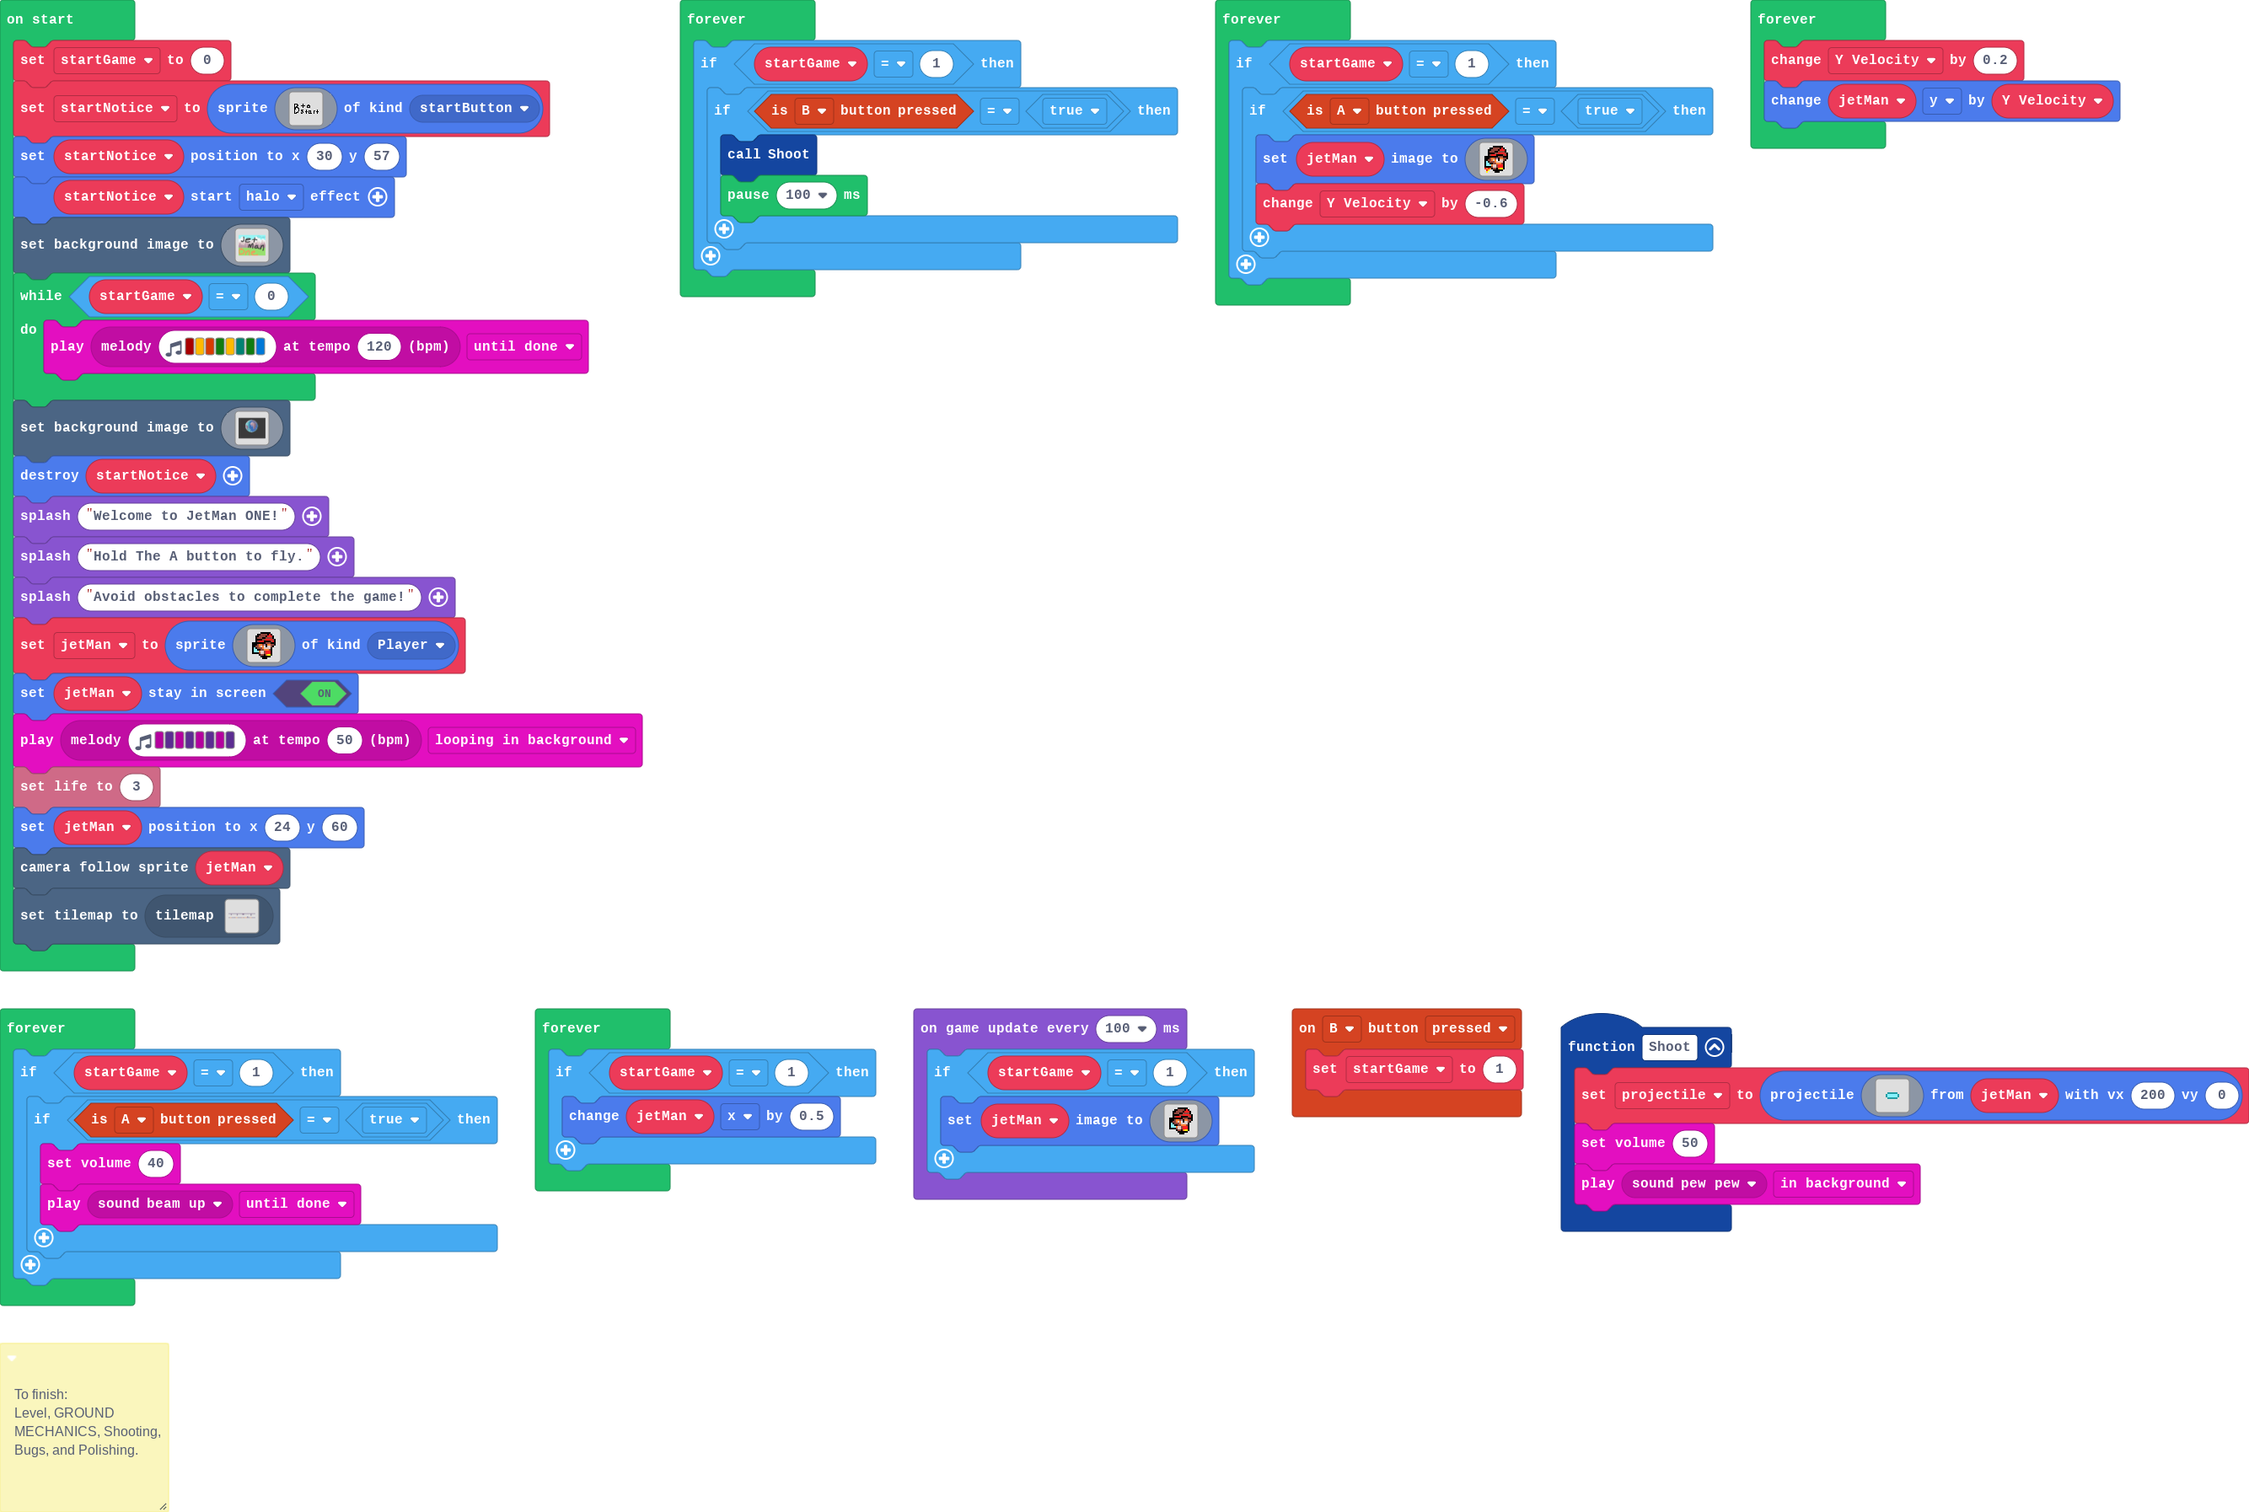
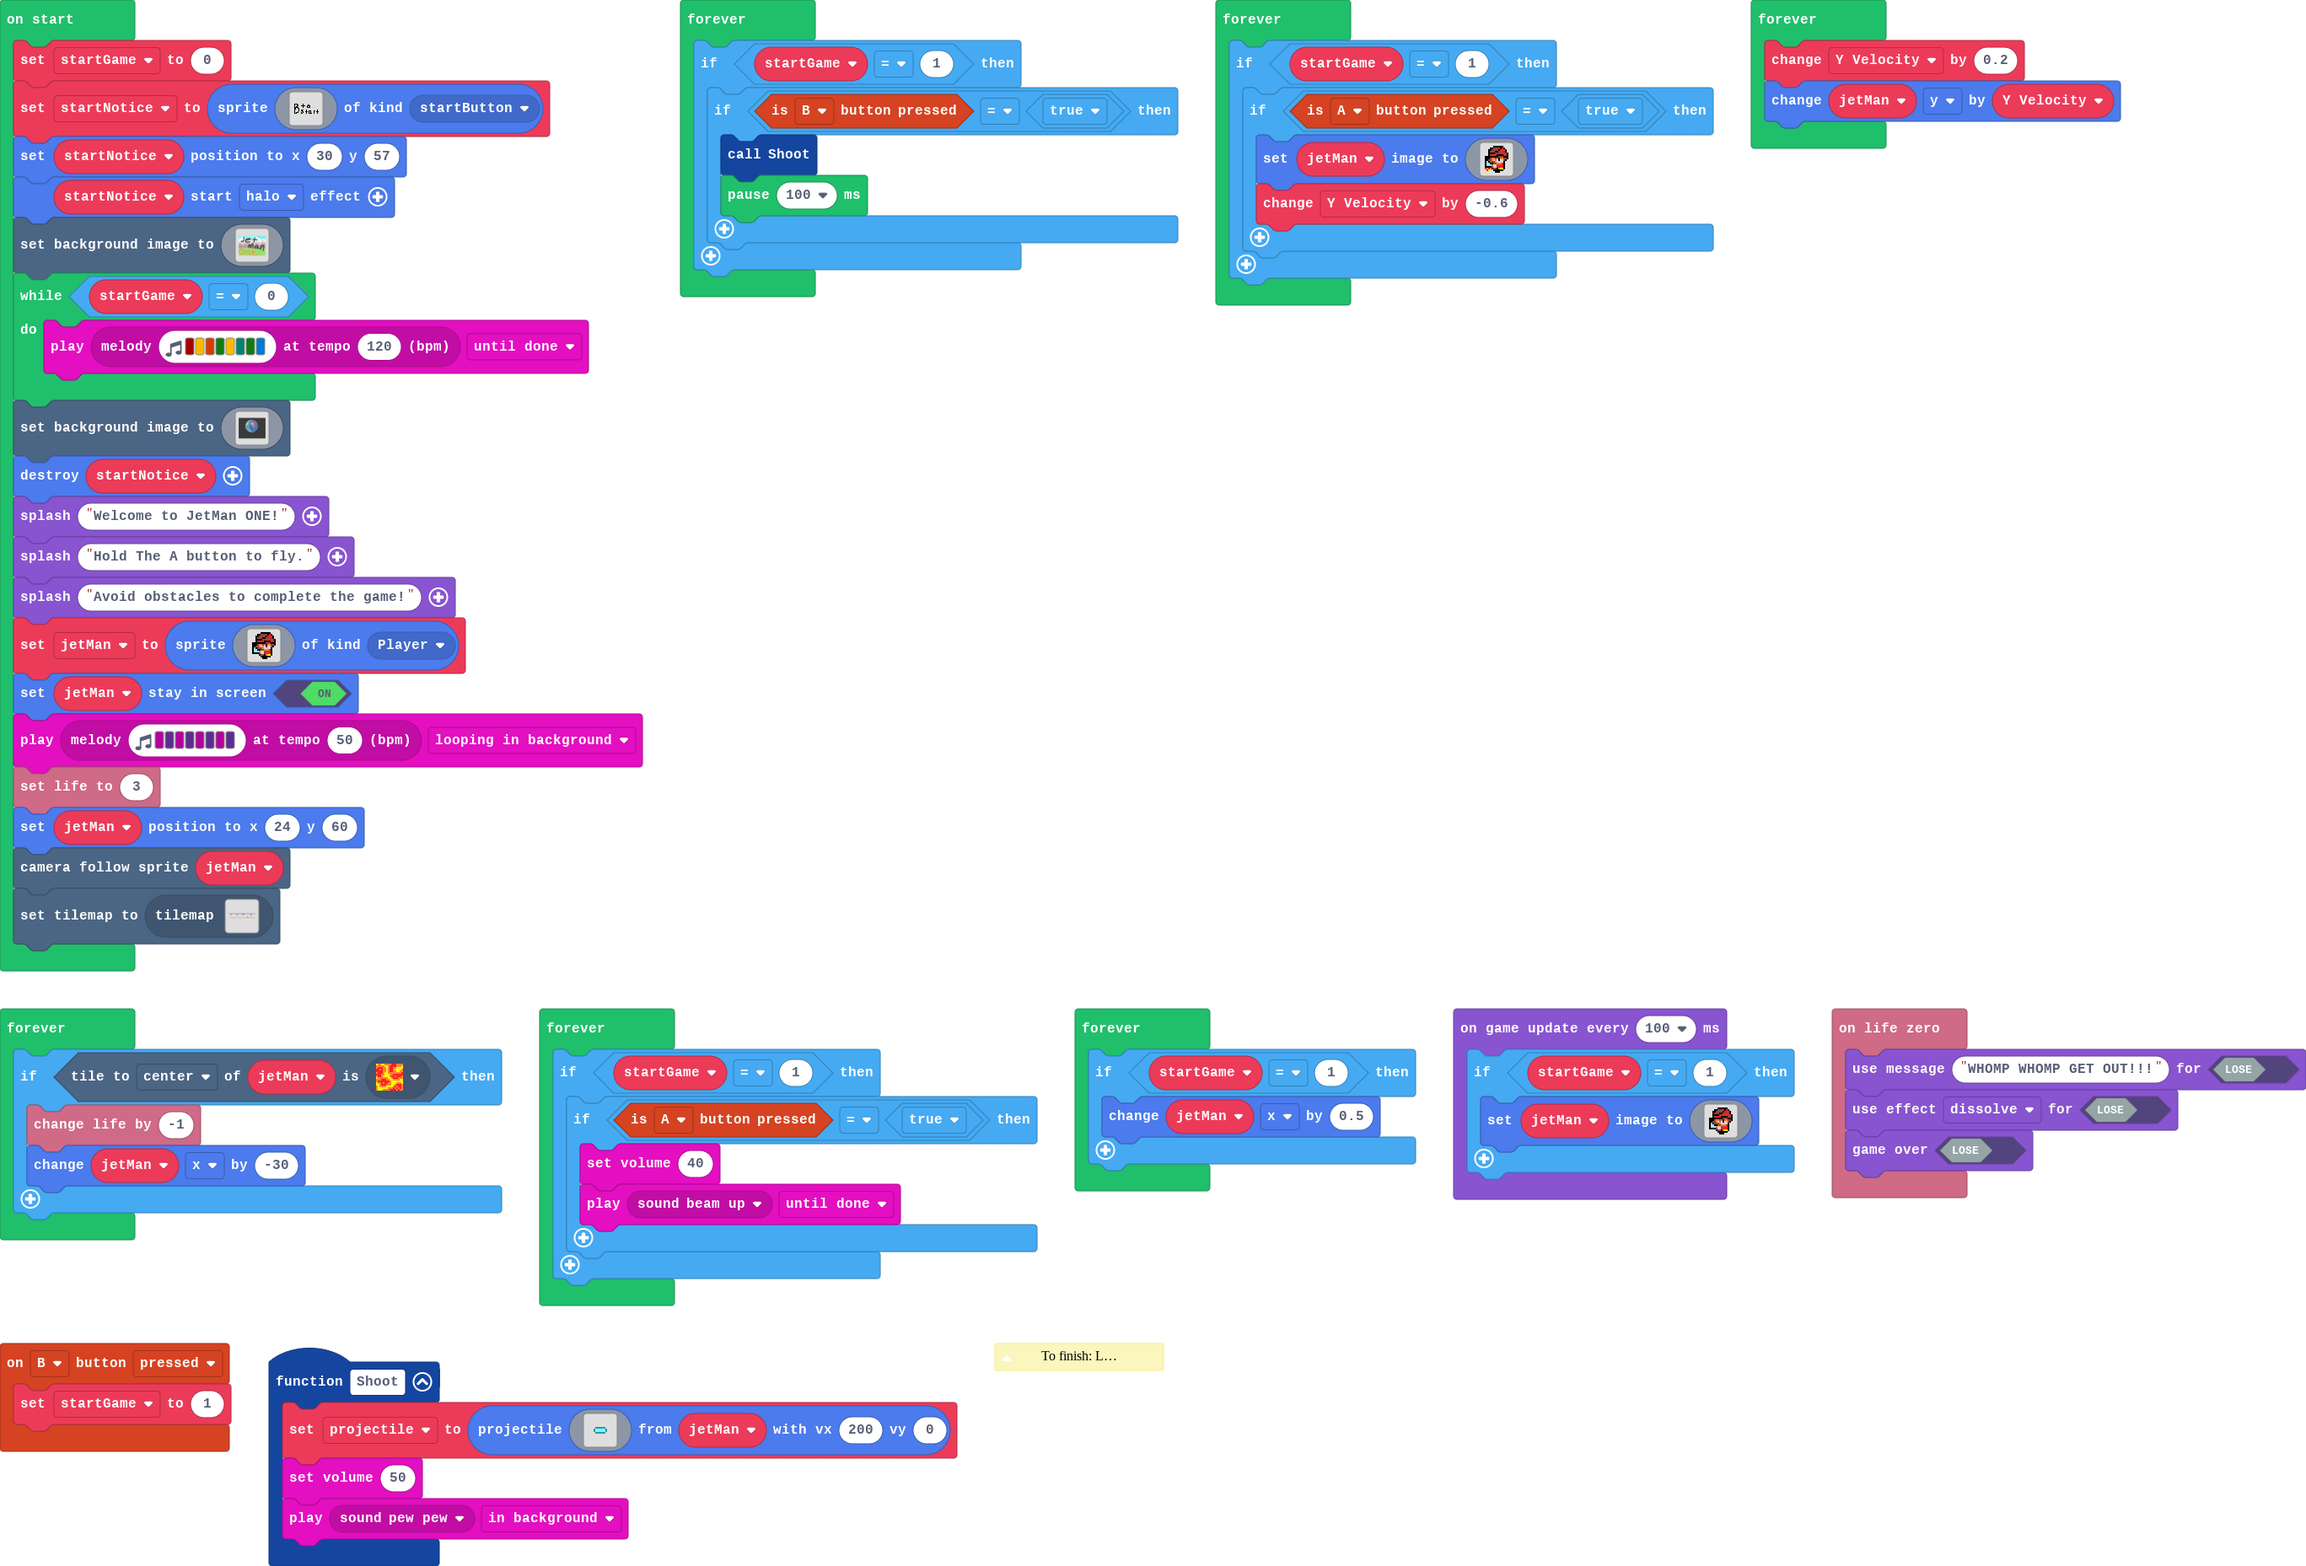
Update main.blocks, main.ts, tilemap.g.jres, tilemap.g.ts

Changed region(s): [[0.0, 0.0, 1.0, 1.0], [0.28, 0.0, 0.9644, 0.2185], [0.4355, 0.8428, 0.5289, 0.874]]

diff --git a/tilemap.g.ts b/tilemap.g.ts
@@ -5,25 +5,6 @@ namespace myTiles {
 
     helpers._registerFactory("tilemap", function(name: string) {
         switch(helpers.stringTrim(name)) {
-            case "level":
[1 lines of base64/hex data omitted]
-22222222222222222222222222222222222222222222222222222222222222222222222222222222222222222222222222222222
-..........22.....................22...................222222..........................22................
-..........22.....................22...................222222..........................22................
-..........22.....................22...................222222..........................22................
-..........22.....................22...................................................22................
-..........22.....................22...................................................22................
-.................................22...................................................22................
-.....................2222.............................................................22................
-.....................2222...............................................................................
-........................................................................................................
-........................................................................................................
-.........................................................................22.............................
-.........................................................................22.............................
-.........................................................................22.............................
-.......................2.................................................22.............................
-222222......2222222222222222.......22222222222222222....222222........2222222222222......222222222222222
-`, [myTiles.transparency16,sprites.dungeon.hazardLava1,sprites.dungeon.darkGroundNorth,sprites.dungeon.hazardLava0,sprites.dungeon.darkGroundEast,sprites.dungeon.darkGroundSouthEast0,sprites.dungeon.darkGroundSouthWest0,sprites.dungeon.darkGroundWest,sprites.builtin.brick,sprites.dungeon.doorClosedNorth,sprites.dungeon.darkGroundNorthWest0,sprites.dungeon.darkGroundNorthEast0,sprites.dungeon.darkGroundCenter,sprites.dungeon.darkGroundSouth], TileScale.Sixteen);
             case "hbbhb":
[1 lines of base64/hex data omitted]
 ........................................................................................................................................................................................................
@@ -43,6 +24,25 @@ namespace myTiles {
 ........................................................................................................................................................................................................
 ........................................................................................................................................................................................................
 `, [myTiles.transparency16,sprites.castle.tileGrass2], TileScale.Sixteen);
+            case "level":
[1 lines of base64/hex data omitted]
+22222222222222222222222222222222222222222222222222222222222222222222222222222222222222222222222222222222
+..........22.....................22...................222222..........................22................
+..........22.....................22...................222222..........................22................
+..........22.....................22...................222222..........................22................
+..........22.....................22...................................................22................
+..........22.....................22...................................................22................
+.................................22...................................................22................
+.....................2222.............................................................22................
+.....................2222...............................................................................
+........................................................................................................
+........................................................................................................
+.........................................................................22.............................
+.........................................................................22.............................
+.........................................................................22.............................
+.........................................................................22.............................
+........................................................................................................
+`, [myTiles.transparency16,sprites.dungeon.hazardLava1,sprites.dungeon.darkGroundEast,sprites.dungeon.darkGroundSouthEast0,sprites.dungeon.darkGroundSouthWest0,sprites.dungeon.darkGroundWest,sprites.builtin.brick,sprites.dungeon.darkGroundNorthWest0,sprites.dungeon.darkGroundNorthEast0,sprites.dungeon.darkGroundCenter,sprites.dungeon.darkGroundSouth], TileScale.Sixteen);
         }
         return null;
     })

diff --git a/main.ts b/main.ts
@@ -31,6 +31,11 @@ function Shoot () {
     music.setVolume(50)
     music.play(music.melodyPlayable(music.pewPew), music.PlaybackMode.InBackground)
 }
+info.onLifeZero(function () {
+    game.setGameOverMessage(false, "WHOMP WHOMP GET OUT!!!")
+    game.setGameOverEffect(false, effects.dissolve)
+    game.gameOver(false)
+})
 let Y_Velocity = 0
 let projectile: Sprite = null
 let jetMan: Sprite = null
@@ -74,6 +79,12 @@ forever(function () {
 forever(function () {
     Y_Velocity += 0.2
     jetMan.y += Y_Velocity
+})
+forever(function () {
+    if (jetMan.tileKindAt(TileDirection.Center, sprites.dungeon.hazardLava1)) {
+        info.changeLifeBy(-1)
+        jetMan.x += -30
+    }
 })
 forever(function () {
     if (startGame == 1) {
